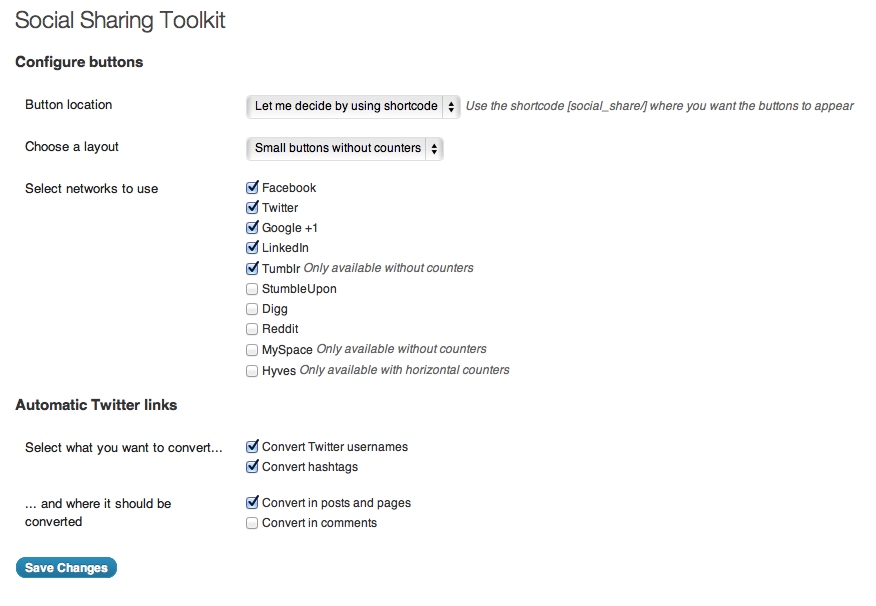
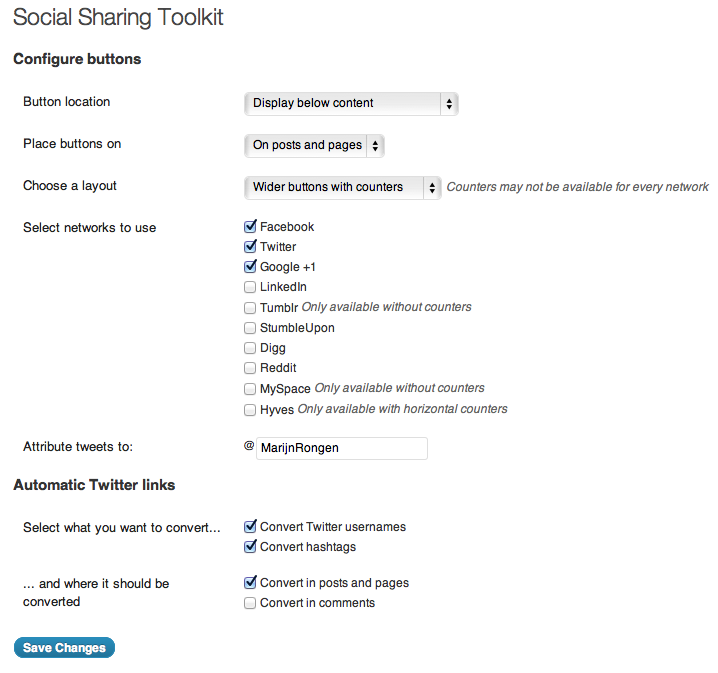
Tagging version 1.3.0
git-svn-id: https://plugins.svn.wordpress.org/social-sharing-toolkit/trunk@419982 b8457f37-d9ea-0310-8a92-e5e31aec5664

diff --git a/style.css b/style.css
@@ -1,50 +1,63 @@
-ul.mr_social_sharing, ul.mr_social_sharing_widget {
-	list-style-type: none;
+div.mr_social_sharing, div.mr_social_sharing {
+	height: auto;
+	width: 100%;
+	overflow: hidden;
+	margin: 0 !important;
+	padding: 0 !important;
+	border: 0 !important;
+}
+
+ul.mr_social_sharing, ul.mr_social_sharing {
+	list-style-type: none !important;
 	float: left;
 	clear: both;
 	display: block;
 	width: 100%;
-	margin: 0;
-	padding: 0;
-	border: 0;
+	height: auto;
+	text-align: left;
+	margin: 0 !important;
+	padding: 0 !important;
+	border: 0 !important;
 }
 
 li.mr_social_sharing_none, li.mr_social_sharing_widget_none {
+	list-style-type: none !important;
 	float: left;
 	width: auto;
 	height: 24px;
-	margin: 0;
-	padding: 4px;
-	border: 0;
+	margin: 0 !important;
+	padding: 4px !important;
+	border: 0 !important;
 }
 
 li.mr_social_sharing_horizontal, li.mr_social_sharing_widget_horizontal {
+	list-style-type: none !important;
 	float: left;
 	width: 150px;	
 	height: 24px;
-	margin: 0;
-	padding: 0;
-	text-align: left;
-	border: 0;
+	margin: 0 !important;
+	padding: 0 !important;
+	border: 0 !important;
 }
 
 li.mr_social_sharing_vertical, li.mr_social_sharing_widget_vertical {
+	list-style-type: none !important;
 	float: left;
 	width: 64px;
 	height: 70px;
-	margin: 0;
-	padding: 0;
 	text-align: center;
-	border: 0;
+	margin: 0 !important;
+	padding: 0 !important;
+	border: 0 !important;
 }
 
 li.mr_social_sharing_none img, li.mr_social_sharing_horizontal img, li.mr_social_sharing_vertical img, li.mr_social_sharing_widget_none img, li.mr_social_sharing_widget_horizontal img, li.mr_social_sharing_widget_vertical img {
-	margin: 0;
-	padding: 0;
-	border: 0;
+	margin: 0 !important;
+	padding: 0 !important;
+	border: 0 !important;
 }
 
-li.mr_social_sharing_none a, li.mr_social_sharing_horizontal a, li.mr_social_sharing_vertical a, li.mr_social_sharing_widget_none a, li.mr_social_sharing_widget_horizontal a, li.mr_social_sharing_widget_vertical a {
+li.mr_social_sharing_none a, li.mr_social_sharing_horizontal a, li.mr_social_sharing_vertical a, li.mr_social_sharing_widget_none a, li.mr_social_sharing_widget_horizontal a, li.mr_social_sharing_widget_vertical a, li.mr_social_sharing_none a:HOVER, li.mr_social_sharing_horizontal a:HOVER, li.mr_social_sharing_vertical a:HOVER, li.mr_social_sharing_widget_none a:HOVER, li.mr_social_sharing_widget_horizontal a:HOVER, li.mr_social_sharing_widget_vertical a:HOVER {
 	background: none;
-	border: 0;
+	border: 0 !important;
 }

diff --git a/social_sharing_toolkit.php b/social_sharing_toolkit.php
@@ -3,7 +3,7 @@
 Plugin Name: Social Sharing Toolkit
 Plugin URI: http://www.marijnrongen.com/wordpress-plugins/social_sharing_toolkit/
 Description: This plugin enables sharing of your content via popular social networks and can also convert Twitter names and hashtags to links. Easy & configurable.
-Version: 1.2.5
+Version: 1.3.0
 Author: Marijn Rongen
 Author URI: http://www.marijnrongen.com
 */
@@ -16,7 +16,7 @@ class MR_Social_Sharing_Toolkit {
 	}
 
 	function get_options() {
-		$this->options = array('share' => 1, 'like' => 1, 'tweet' => 1, 'tumblr' => 1, 'stumble' => 1, 'plus' => 1, 'digg' => 1, 'reddit' => 1, 'myspace' => 1, 'hyves' => 1, 'twitter_handle' => '', 'position' => 'none', 'layout' => 'none', 'linkify_content' => 0, 'linkify_comments' => 0, 'twitter_handles' => 0, 'twitter_hashtags' => 0);
+		$this->options = array('share' => 1, 'like' => 1, 'tweet' => 1, 'tumblr' => 1, 'stumble' => 1, 'plus' => 1, 'digg' => 1, 'reddit' => 1, 'myspace' => 1, 'hyves' => 1, 'twitter_handle' => '', 'position' => 'none', 'types' => 'both', 'layout' => 'none', 'linkify_content' => 0, 'linkify_comments' => 0, 'twitter_handles' => 0, 'twitter_hashtags' => 0);
 		foreach ($this->options as $key => $val) {
 			$this->options[$key] = get_option( $key, $val );
 		}
@@ -80,6 +80,28 @@ class MR_Social_Sharing_Toolkit {
 		if ($this->options['position'] == 'shortcode') { 
 			echo '<span class="description"> '.__("Use the shortcode [social_share/] where you want the buttons to appear", 'mr_social_sharing').'</span>';
 		}			
+		echo '
+								</td>
+							</tr>
+							<tr valign="top">
+								<th scope="row">
+									<label for="types">Place buttons on</label>
+								</th>
+								<td>
+									<select name="types" id="types">
+										<option value="both"';
+		if ($this->options['types'] == 'both') { echo ' selected="selected"';}
+		echo '>On posts and pages</option>
+										<option value="posts"';
+		if ($this->options['types'] == 'posts') { echo ' selected="selected"';}
+		echo '>Only on posts</option>
+										<option value="pages"';
+		if ($this->options['types'] == 'pages') { echo ' selected="selected"';}
+		echo '>Only on pages</option>
+									</select>';
+		if ($this->options['position'] == 'shortcode') { 
+			echo '<span class="description"> '.__("The shortcode [social_share/] can always be used on posts and pages", 'mr_social_sharing').'</span>';
+		}
 		echo '
 								</td>
 							</tr>
@@ -205,22 +227,25 @@ class MR_Social_Sharing_Toolkit {
 		}
 		if ($this->options['position'] == 'none' || $this->options['position'] == 'shortcode') {
 			return false;
-		}
+		} 
 		return true;
 	}
 	
 	function create_bookmarks($url = '', $title = '', $layout = '') {
+		$url = trim($url);
+		$title = trim($title);
 		if ($url == '') {
 			$url = 'http://'.$_SERVER["SERVER_NAME"].$_SERVER["REQUEST_URI"];	
 		}
 		$layout = ($layout != '') ? $layout : $this->options['layout'];
 		$class = 'mr_social_sharing_'.$layout;
-		$bookmarks = '<ul class="mr_social_sharing">
-						<!-- Social Sharing Toolkit v1.2.5 | http://www.marijnrongen.com/wordpress-plugins/social_sharing_toolkit/ -->';
+		$bookmarks = '<div class="mr_social_sharing">
+					<ul class="mr_social_sharing">
+						<!-- Social Sharing Toolkit v1.3.0 | http://www.marijnrongen.com/wordpress-plugins/social_sharing_toolkit/ -->';
 		if ($this->options['like'] == 1) {
 			$bookmarks .= '
 						<li class="'.$class.'">
-							<iframe src="http://www.facebook.com/plugins/like.php?href='.$url.'&amp;layout=';
+							<iframe src="http://www.facebook.com/plugins/like.php?locale=en_US&amp;href='.urlencode($url).'&amp;layout=';
 			switch ($layout) {
 				case 'horizontal':
 					$bookmarks .= 'button_count';
@@ -331,7 +356,7 @@ class MR_Social_Sharing_Toolkit {
 					$bookmarks .= '4';
 					break;
 			}
-			$bookmarks .= '&r='.$url.'"></script>
+			$bookmarks .= '&amp;r='.urlencode($url).'"></script>
 						</li>';	
 		}
 		if ($this->options['digg'] == 1) {
@@ -349,7 +374,7 @@ class MR_Social_Sharing_Toolkit {
 					$bookmarks .= 'DiggIcon';
 					break;
 			}			
-			$bookmarks .= '" href="http://digg.com/submit?url='.$url.'&amp;title='.$title.'"></a>
+			$bookmarks .= '" href="http://digg.com/submit?url='.urlencode($url).'&amp;title='.urlencode($title).'"></a>
 						</li>';
 		}
 		if ($this->options['reddit'] == 1) {
@@ -374,7 +399,7 @@ class MR_Social_Sharing_Toolkit {
 					break;
 				default:
 					$bookmarks .= '
-							<a href="http://www.reddit.com/submit" onclick="window.location = \'http://www.reddit.com/submit?url='.$url.'\'; return false"><img src="http://www.reddit.com/static/spreddit1.gif" alt="submit to reddit" border="0" /></a>';
+							<a href="http://www.reddit.com/submit" onclick="window.location = \'http://www.reddit.com/submit?url='.urlencode($url).'\'; return false"><img src="http://www.reddit.com/static/spreddit1.gif" alt="submit to reddit" border="0" /></a>';
 					break;
 			}	
 			$bookmarks .= '
@@ -383,7 +408,7 @@ class MR_Social_Sharing_Toolkit {
 		if ($this->options['myspace'] == 1) {
 			$bookmarks .= '
 						<li class="'.$class.'">
-							<a href="javascript:void(window.open(\'http://www.myspace.com/Modules/PostTo/Pages/?u='.$url.'\',\'ptm\',\'height=450,width=550\').focus())">
+							<a href="javascript:void(window.open(\'http://www.myspace.com/Modules/PostTo/Pages/?u='.urlencode($url).'\',\'ptm\',\'height=450,width=550\').focus())">
     							<img src="http://cms.myspacecdn.com/cms//ShareOnMySpace/Myspace_btn_';
     		switch ($layout) {
     			case 'horizontal':
@@ -400,30 +425,34 @@ class MR_Social_Sharing_Toolkit {
 		if ($this->options['hyves'] == 1) {
 			$bookmarks .= '
 						<li class="'.$class.'">
-							<iframe src="http://www.hyves.nl/respect/button?url='.$url.'&amp;title='.$title.'" style="border: medium none; overflow:hidden; width:150px; height:21px;" scrolling="no" frameborder="0" allowTransparency="true" ></iframe>
+							<iframe src="http://www.hyves.nl/respect/button?url='.urlencode($url).'&amp;title='.urlencode($title).'" style="border: medium none; overflow:hidden; width:150px; height:21px;" scrolling="no" frameborder="0" allowTransparency="true" ></iframe>
 						</li>';
 		}
 		$bookmarks .= '
-					</ul>';
+					</ul>
+				</div>';
 		return $bookmarks;	
 	}
 	
 	function share($content) {
-		if ($this->options['position'] == 'top') {
-			$bookmarks = $this->create_bookmarks(get_permalink(), the_title('','',false));
-			$content = $bookmarks.$content;	
-		}
-		if ($this->options['position'] == 'bottom') {
-			$bookmarks = $this->create_bookmarks(get_permalink(), the_title('','',false));
-			$content .= $bookmarks;
+		$type = get_post_type().'s';
+		if (($this->options['types'] == $type || $this->options['types'] == 'both') && ($type != 'pages' && is_single() || $type == 'pages' && !is_single())) {
+			if ($this->options['position'] == 'top') {
+				$bookmarks = $this->create_bookmarks(get_permalink(), the_title('','',false));
+				$content = $bookmarks.$content;	
+			}
+			if ($this->options['position'] == 'bottom') {
+				$bookmarks = $this->create_bookmarks(get_permalink(), the_title('','',false));
+				$content .= $bookmarks;
+			}
 		}
 		return $content;
 	}
 	
 	function share_shortcode() {
 		$bookmarks = '';
-		if ($this->options['position'] == 'shortcode') {
-			$bookmarks = $this->create_bookmarks();
+		if ($this->options['position'] == 'shortcode' && is_single()) {
+			$bookmarks = $this->create_bookmarks(get_permalink(), the_title('','',false));
 		}
 		return $bookmarks;
 	}
@@ -447,7 +476,7 @@ class MR_Social_Sharing_Toolkit {
 			$content = preg_replace("/(^|\s)*(@([a-zA-Z0-9-_]{1,15}))(\.*[^|\n|\r|\t|\s|\<|\&]*)/i", "$1<a href=\"http://twitter.com/$3\">$2</a>$4", $content);
 		}
 		if ($this->options['twitter_hashtags'] == 1) {
-			$content = preg_replace("/(^|\s)*((?:(?<!&))#([a-zA-Z0-9]+))([^|\n|\r|\t|\s|\.|\<|\&]*)/i", "$1<a href=\"http://twitter.com/search/$3\">$2</a>$4", $content);
+			$content = preg_replace("/(^|\s)*((?:(?<!&))#([a-zA-Z0-9]+^[-|;]))([^|\n|\r|\t|\s|\.|\<|\&]*)/i", "$1<a href=\"http://twitter.com/search/$3\">$2</a>$4", $content);
 		}
 		return $content;
 	}
@@ -464,7 +493,7 @@ class MR_Social_Sharing_Toolkit_Widget extends WP_Widget {
 		$MR_Social_Sharing_Toolkit = new MR_Social_Sharing_Toolkit();
 		$widget_layout = empty($instance['widget_layout']) ? 'none' : $instance['widget_layout'];
 		$widget_title = empty($instance['widget_title']) ? '' : $instance['widget_title'];
-		$bookmarks = $MR_Social_Sharing_Toolkit->create_bookmarks('', '', $widget_layout);	
+		$bookmarks = $MR_Social_Sharing_Toolkit->create_bookmarks('', wp_title('', false), $widget_layout);	
 		echo $before_widget;
 		if ($widget_title != '') {
 			echo $before_title . $widget_title . $after_title;
